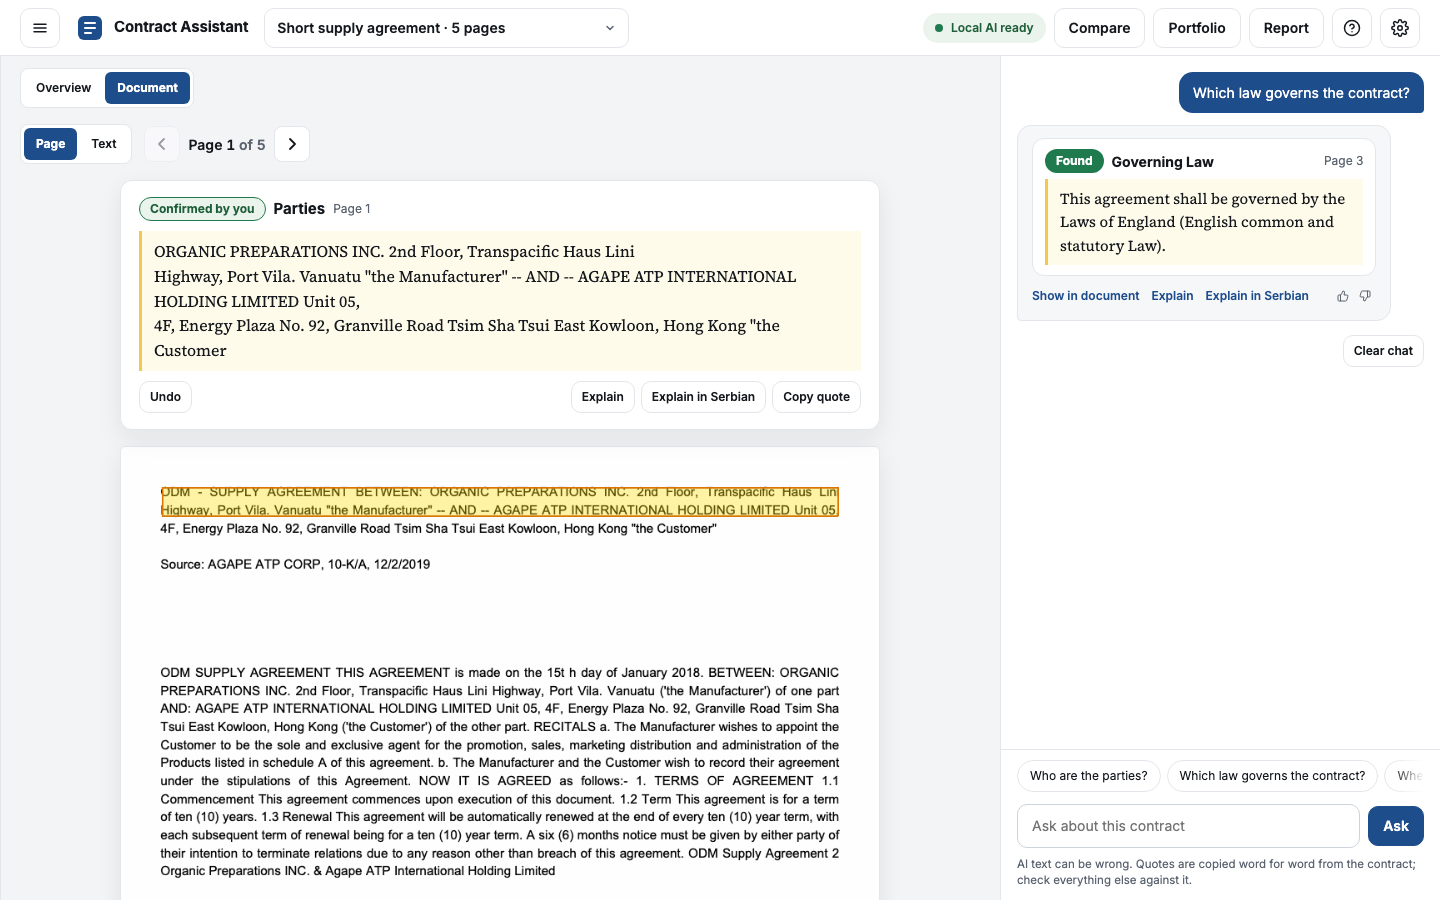
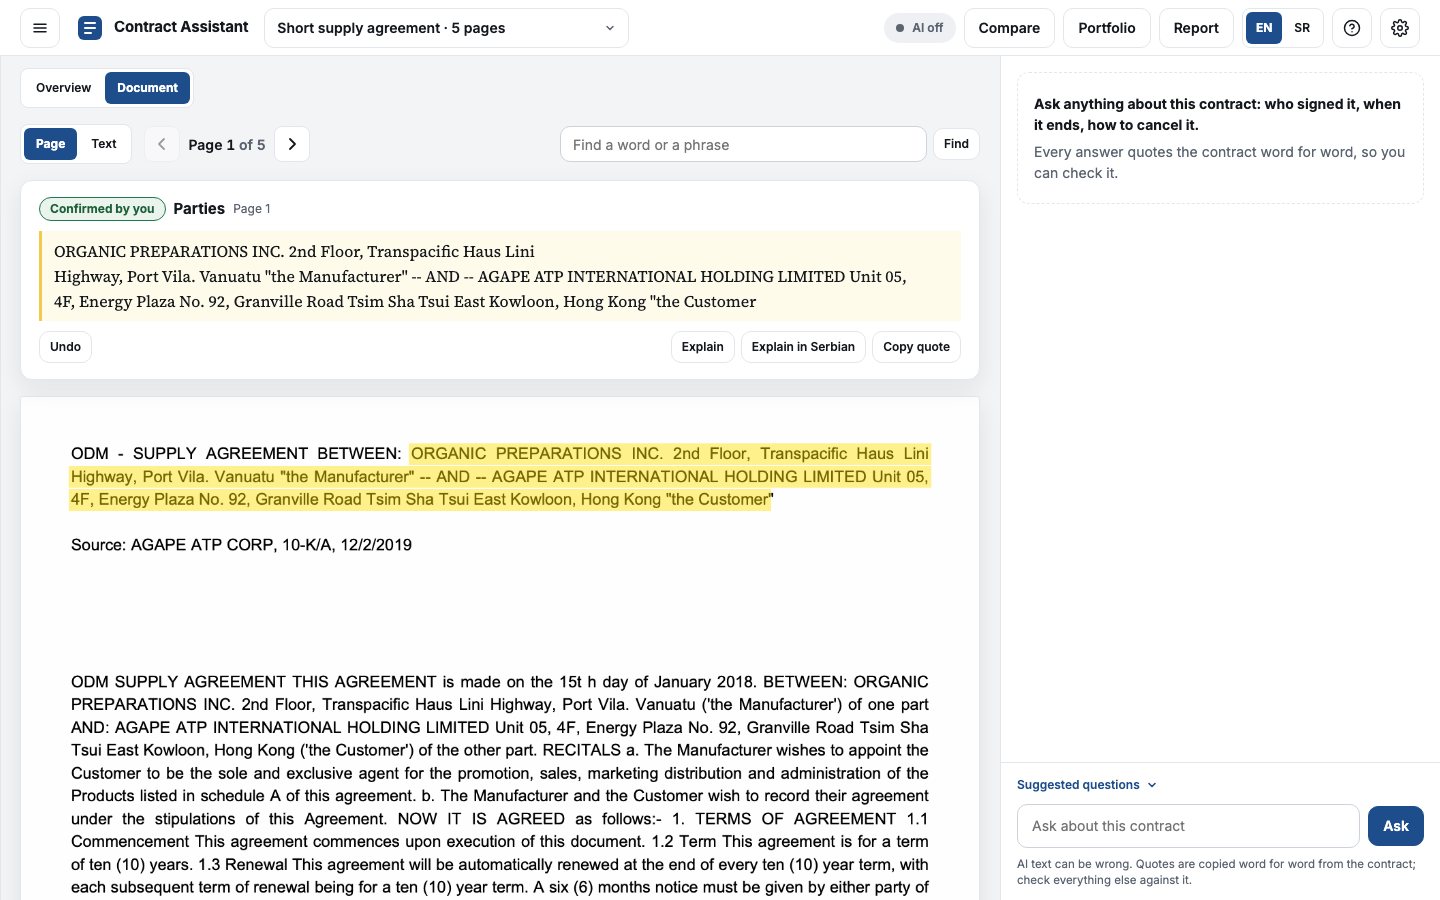
Mark passages on the page line by line, flow the text view, and fold the suggested questions
The page renders crisper and uses the pane's width; the whole quote is
looked for first and marked like a highlighter, one box per line, with
no frame; the last few pages stay cached. The text view joins wrapped
lines into paragraphs. The suggested questions are back as the wrapped
chips, inside a panel that opens on click.

diff --git a/contract_assistant/web/static/app.css b/contract_assistant/web/static/app.css
@@ -269,16 +269,16 @@ body.drawer-open .workspace { grid-template-columns: 264px minmax(0, 1fr) 440px;
 .doc-heading { font-weight: 600; }
 .doc-text {
   background: var(--surface); border: 1px solid var(--border); border-radius: 6px;
-  box-shadow: var(--shadow); padding: 28px 32px; max-width: 760px; width: 100%; align-self: center;
-  font-family: var(--serif); font-size: 15.5px; line-height: 1.7;
+  box-shadow: var(--shadow); padding: 32px 40px; max-width: 860px; width: 100%; align-self: center;
+  font-family: var(--serif); font-size: 16px; line-height: 1.75;
   white-space: pre-wrap; overflow-wrap: anywhere;
 }
 .doc-page {
-  width: 100%; max-width: 760px; height: auto; align-self: center;
-  border: 1px solid var(--border); border-radius: 6px; background: var(--surface); box-shadow: var(--shadow);
+  width: 100%; max-width: 1000px; height: auto; align-self: center;
+  border: 1px solid var(--border); border-radius: 4px; background: var(--surface); box-shadow: var(--shadow);
 }
 mark.highlight { background: var(--highlight); color: inherit; padding: 1px 0; border-radius: 2px; box-shadow: 0 0 0 2px var(--highlight); }
-.passage-card { max-width: 760px; width: 100%; align-self: center; padding: 16px 18px; }
+.passage-card { max-width: 1000px; width: 100%; align-self: center; padding: 16px 18px; }
 .passage-card .quote { background: var(--quote-bg); font-size: 16px; }
 
 /* Chat pane composer */
@@ -287,12 +287,14 @@ mark.highlight { background: var(--highlight); color: inherit; padding: 1px 0; b
   display: flex; flex-direction: column; gap: 8px; background: var(--surface);
 }
 .chips { display: flex; flex-wrap: wrap; gap: 6px; }
-.chips-row {
-  display: flex; gap: 6px; overflow-x: auto; padding-bottom: 4px;
-  scrollbar-width: thin; -webkit-overflow-scrolling: touch;
-  mask-image: linear-gradient(to right, #000 calc(100% - 32px), transparent);
+.suggest summary {
+  list-style: none; cursor: pointer; display: inline-flex; align-items: center; gap: 6px;
+  font-size: 12px; font-weight: 600; color: var(--primary); padding: 2px 0;
 }
-.chips-row .chip { flex: 0 0 auto; }
+.suggest summary::-webkit-details-marker { display: none; }
+.suggest summary svg { transition: transform 0.15s ease-out; }
+.suggest[open] summary svg { transform: rotate(180deg); }
+.suggest-panel { display: flex; flex-wrap: wrap; gap: 6px; padding: 8px 0 4px; }
 .ai-notice { margin: 0; font-size: 11.5px; color: var(--muted); line-height: 1.4; }
 .ask { display: flex; gap: 8px; align-items: center; }
 .ask .input { flex: 1 1 auto; }

diff --git a/contract_assistant/web/templates/workspace.html b/contract_assistant/web/templates/workspace.html
@@ -34,11 +34,14 @@
   <section class="chat-pane" aria-label="{{ _('Chat') }}">
     <div id="chat-body" class="chat-body" hx-get="/documents/{{ cache.doc_id }}/chat" hx-trigger="load" hx-swap="innerHTML"></div>
     <footer class="composer">
-      <div class="chips-row" aria-label="{{ _('Suggested questions') }}">
-        {% for text in suggestions %}
-        <button type="button" class="chip" data-fill="{{ _(text) }}">{{ _(text) }}</button>
-        {% endfor %}
-      </div>
+      <details class="suggest" id="suggest">
+        <summary aria-label="{{ _('Suggested questions') }}">{{ _("Suggested questions") }}<svg width="12" height="12" viewBox="0 0 12 12" fill="none" aria-hidden="true"><path d="M3 4.5 6 7.5 9 4.5" stroke="currentColor" stroke-width="1.6" stroke-linecap="round" stroke-linejoin="round"></path></svg></summary>
+        <div class="suggest-panel">
+          {% for text in suggestions %}
+          <button type="button" class="chip" data-fill="{{ _(text) }}">{{ _(text) }}</button>
+          {% endfor %}
+        </div>
+      </details>
       <form class="ask" data-stream data-target="#chat-body" data-reset
             action="/documents/{{ cache.doc_id }}/ask" method="post">
         <label class="sr-only" for="question">{{ _("Ask about this contract") }}</label>

diff --git a/contract_assistant/web/static/app.js b/contract_assistant/web/static/app.js
@@ -246,6 +246,8 @@
     const chip = event.target.closest("[data-fill]");
     if (chip) {
       const input = document.getElementById("question");
+      const panel = chip.closest("details.suggest");
+      if (panel) panel.open = false;
       if (input) {
         input.value = chip.dataset.fill;
         const form = input.closest("form");

diff --git a/contract_assistant/web/library.py b/contract_assistant/web/library.py
@@ -12,6 +12,7 @@ import queue
 import re
 import tempfile
 import time
+from collections import OrderedDict
 from collections.abc import Callable, Generator, Iterator
 from concurrent.futures import ThreadPoolExecutor
 from dataclasses import dataclass
@@ -105,6 +106,9 @@ SEVERITIES = ("high", "medium", "low")
 BOLD = re.compile(r"\*\*(.+?)\*\*")
 # Page breaks of the demo texts are runs of blank lines; one blank line is enough on screen.
 BLANK_LINES = re.compile(r"\n[ \t]*\n(?:[ \t]*\n)+")
+# A line break inside a paragraph (PDF text and OCR text are wrapped by line); a blank line stays.
+LINE_BREAK = re.compile(r"(?<!\n)\n(?!\n)")
+RENDERED_PAGES = 12
 CODE = re.compile(r"`(.+?)`")
 # The marks of the text view: the passage shown, and every other occurrence of a searched term.
 HIGHLIGHT = "highlight"
@@ -253,6 +257,11 @@ SAMPLE_FILES = (
 SAMPLE_ERRORS = (UnsupportedFileError, EmptyDocumentError)
 
 ProgressItem = tuple[int, int, str]
+
+
+def _flowed(text: str) -> str:
+    """Return a piece of the text with its paragraphs flowing: one blank line between them."""
+    return LINE_BREAK.sub(" ", BLANK_LINES.sub("\n\n", text))
 Span = tuple[int, int]
 # A piece of the text view: its text, its mark (None, HIGHLIGHT or OCCURRENCE) and its label.
 Segment = tuple[str, str | None, str | None]
@@ -403,7 +412,7 @@ def document_pane(
         cache=cache,
         heading=heading,
         show_heading=mode == TEXT_MODE and own_page != shown,
-        segments=[(BLANK_LINES.sub("\n\n", text), mark, name) for text, mark, name in segments],
+        segments=[(_flowed(text), mark, name) for text, mark, name in segments],
         label=label or PASSAGE_LABEL,
         label_text=translate(label or PASSAGE_LABEL, lang),
         citation=citation,
@@ -485,15 +494,22 @@ def page_png(
     citation = _citation(cache, start, end, 1.0)
     term, _ = _term(q)
     key = (cache.doc_id, number, citation.quote if citation else None, term or None)
-    # Paging back and forth asks for the same image again; the last one is kept.
-    rendered = getattr(request.app.state, "rendered_page", None)
-    if rendered is None or rendered[0] != key:
+    # Paging back and forth asks for the same images again; the last few are kept.
+    state = request.app.state
+    rendered = getattr(state, "rendered_pages", None)
+    if rendered is None:
+        rendered = state.rendered_pages = OrderedDict()
+    image = rendered.get(key)
+    if image is None:
         try:
-            rendered = (key, page_image(copy, number, key[2], key[3]))
+            image = page_image(copy, number, key[2], key[3])
         except PageError as error:
             raise HTTPException(status_code=404, detail=_t(request, NO_SUCH_PAGE)) from error
-        request.app.state.rendered_page = rendered
-    return Response(rendered[1], media_type="image/png", headers=PAGE_CACHE_HEADERS)
+        rendered[key] = image
+        while len(rendered) > RENDERED_PAGES:
+            rendered.popitem(last=False)
+    rendered.move_to_end(key)
+    return Response(image, media_type="image/png", headers=PAGE_CACHE_HEADERS)
 
 
 @router.get("/documents/{doc_id}/analysis.json")

diff --git a/contract_assistant/pdf_view.py b/contract_assistant/pdf_view.py
@@ -13,12 +13,16 @@ from contract_assistant.store import DOC_ID_PREFIX
 from contract_assistant.textsearch import pattern_of
 
 DOCUMENTS_DIR = "documents"
-RESOLUTION = 110
-# The first words of a quote are enough to find it on the page; fewer when the line wraps oddly.
+RESOLUTION = 170
+# The whole quote is looked for first; when the text layer differs from the extracted text,
+# its opening words are enough to find it, fewer when the line wraps oddly.
 SEARCH_WORDS = (14, 8, 4)
-FILL = (255, 221, 0, 90)
-STROKE = (217, 119, 6)
-STROKE_WIDTH = 2
+# A translucent marker over each line, with no frame: the page reads as highlighted.
+FILL = (255, 225, 0, 115)
+STROKE = (255, 225, 0, 0)
+STROKE_WIDTH = 0
+LINE_TOLERANCE = 2.5
+PADDING = 1.5
 
 
 class PageError(ValueError):
@@ -46,14 +50,39 @@ def page_count(pdf_path: Path) -> int:
 
 
 def find_quote(page: pdfplumber.page.Page, quote: str) -> list[dict]:
-    """Return the boxes of the first match of the quote's opening words on the page."""
+    """Return the boxes of the quote on the page, one per line of text, else nothing."""
     words = quote.split()
-    for count in SEARCH_WORDS:
+    counts = [len(words), *(count for count in SEARCH_WORDS if count < len(words))]
+    for count in counts:
         pattern = r"\s*".join(re.escape(word) for word in words[:count])
         matches = page.search(pattern, regex=True, case=True)
         if matches:
-            return [matches[0]]
+            return line_boxes(matches[0])
     return []
+
+
+def line_boxes(match: dict) -> list[dict]:
+    """Split one match into a box per line, so a passage reads as marked, not framed."""
+    chars = [char for char in match.get("chars", []) if char.get("text", "").strip()]
+    if not chars:
+        return [{key: match[key] for key in ("x0", "top", "x1", "bottom")}]
+    lines: list[dict] = []
+    for char in sorted(chars, key=lambda c: (round(c["top"]), c["x0"])):
+        line = lines[-1] if lines else None
+        if line is None or abs(char["top"] - line["top"]) > LINE_TOLERANCE:
+            lines.append(
+                {
+                    "x0": char["x0"] - PADDING,
+                    "top": char["top"] - PADDING,
+                    "x1": char["x1"] + PADDING,
+                    "bottom": char["bottom"] + PADDING,
+                }
+            )
+            continue
+        line["x0"] = min(line["x0"], char["x0"] - PADDING)
+        line["x1"] = max(line["x1"], char["x1"] + PADDING)
+        line["bottom"] = max(line["bottom"], char["bottom"] + PADDING)
+    return lines
 
 
 def find_all(page: pdfplumber.page.Page, term: str) -> list[dict]:
@@ -61,7 +90,8 @@ def find_all(page: pdfplumber.page.Page, term: str) -> list[dict]:
     pattern = pattern_of(term)
     if pattern is None:
         return []
-    return page.search(pattern.pattern, regex=True, case=False)
+    matches = page.search(pattern.pattern, regex=True, case=False)
+    return [box for match in matches for box in line_boxes(match)]
 
 
 def page_image(

diff --git a/tests/test_pdf_view.py b/tests/test_pdf_view.py
@@ -4,6 +4,7 @@ from fpdf import FPDF
 
 from contract_assistant.pdf import load_document
 from contract_assistant.pdf_view import (
+    PADDING,
     PageError,
     copy_path,
     find_quote,
@@ -86,7 +87,8 @@ def test_first_match_is_the_upper_one(tmp_path):
     path = write_pdf(tmp_path / "twice.pdf", [f"{SENTENCE_ONE}\n{FILLER}\n{SENTENCE_ONE}"])
     with pdfplumber.open(path) as pdf:
         every = pdf.pages[0].search(SENTENCE_ONE)
-    assert boxes_on(path, 1, SENTENCE_ONE)[0]["top"] == min(box["top"] for box in every)
+    upper = min(box["top"] for box in every)
+    assert boxes_on(path, 1, SENTENCE_ONE)[0]["top"] == pytest.approx(upper - PADDING)
 
 
 def test_page_image_without_quote_is_a_png(pdf_path):

diff --git a/README.md b/README.md
@@ -32,7 +32,7 @@ The web app is a FastAPI application with server-rendered pages (Jinja2 template
 a small script; no build step), written for readers who are not lawyers or developers. The
 workspace shows an overview of the contract (summary, key facts, things to check, who must
 do what, all clauses, defined terms) or the document itself with the cited passage
-highlighted (the page of the PDF with the passage boxed, for a PDF), next to a chat that is
+highlighted (the page of the PDF with the passage marked, for a PDF), next to a chat that is
 always open. The contracts live in a sidebar that slides in. A passage the assistant is not
 sure about is marked "Check this" and carries Confirm and Not this buttons: a confirmed
 passage counts as found everywhere, a rejected one is dropped, and the decision is kept per
@@ -152,7 +152,7 @@ own definition, with no router and no model; `--types` skips that lookup.
 contract-assistant page contract.pdf 3 --quote "governed by the laws"
 ```
 
-It writes a PNG with the quote boxed to `cache/pages/` (or to `--out`) and prints the path.
+It writes a PNG with the quote marked line by line to `cache/pages/` (or to `--out`) and prints the path.
 It needs the copy that `extract` keeps of the PDF; a text file has no pages.
 
 The evaluations use the 41 CUAD clause types only:
@@ -226,7 +226,7 @@ numbers (`p. n/a`); a PDF gives the page.
 The web app calls the same tiers Found, Check this and Not found, and explains them in a
 help popover (the question mark in the top bar). An answer in the chat is a card per clause
 with the quote and the page; the document pane opens at the passage, highlighted in the text
-or boxed on the page of the PDF (rendered from the copy kept under `cache/documents/` for a
+or marked on the page of the PDF (rendered from the copy kept under `cache/documents/` for a
 PDF uploaded through the app or analysed with `extract`; the demo text files show the
 excerpt). A passage marked Check this carries Confirm and Not this, in the chat, in the
 overview and under the document; Undo takes a decision back. The overview lists what the
@@ -243,7 +243,7 @@ saved parts.
 | ![The overview filling in](docs/screenshots/generating.png) | ![The overview of a contract](docs/screenshots/overview.png) |
 | Right after the analysis the summary and the key facts are written in front of the reader. | The overview: what the assistant did, the summary and the sections below it. |
 | ![All clauses with Confirm and Not this](docs/screenshots/clauses.png) | ![A passage confirmed by the reader](docs/screenshots/confirmed.png) |
-| All clauses: a passage to check carries Confirm and Not this. | After Confirm the passage counts as found and the document shows it boxed. |
+| All clauses: a passage to check carries Confirm and Not this. | After Confirm the passage counts as found and the document shows it marked. |
 | ![A found answer in the chat](docs/screenshots/chat.png) | ![A clause restated in plain English](docs/screenshots/explain.png) |
 | A question answered with the quote and its page; the document opens at the passage. | "explain that": a restatement with the AI badge. |
 | ![The closest passages for a question outside the clauses](docs/screenshots/passages.png) | ![The contracts sidebar](docs/screenshots/drawer.png) |
@@ -252,15 +252,15 @@ saved parts.
 | How to read the labels, in the reader's words. | Two contracts side by side: the key terms, the things to check and the clauses that differ. |
 | ![The portfolio](docs/screenshots/portfolio.png) | ![Search inside the document](docs/screenshots/search.png) |
 | Every analysed contract with its coverage, key terms and flags. | Search inside the document: every occurrence with its page. |
-| ![Every occurrence boxed on the page](docs/screenshots/occurrences.png) | ![The Serbian interface](docs/screenshots/serbian.png) |
-| One hit opened on the page, with every occurrence boxed and previous / next. | The same workspace in Serbian, with the summary written in Serbian. |
+| ![Every occurrence marked on the page](docs/screenshots/occurrences.png) | ![The Serbian interface](docs/screenshots/serbian.png) |
+| One hit opened on the page, with every occurrence marked and previous / next. | The same workspace in Serbian, with the summary written in Serbian. |
 | ![A scanned PDF read with OCR](docs/screenshots/scanned.png) | |
 | A scanned PDF: both pages read with Tesseract, opened in text mode with the OCR note. | |
 
 ### Search, scans and the Serbian interface
 
 The search box in the document pane lists every occurrence of a term with its page and a
-snippet; each one opens the document at that place with all the occurrences marked, boxed on
+snippet; each one opens the document at that place with all the occurrences marked on
 the page of a PDF or highlighted in the text. The Defined terms section offers the same for
 each term ("Show every occurrence"). The matching ignores case and line breaks and needs at
 least two characters.
